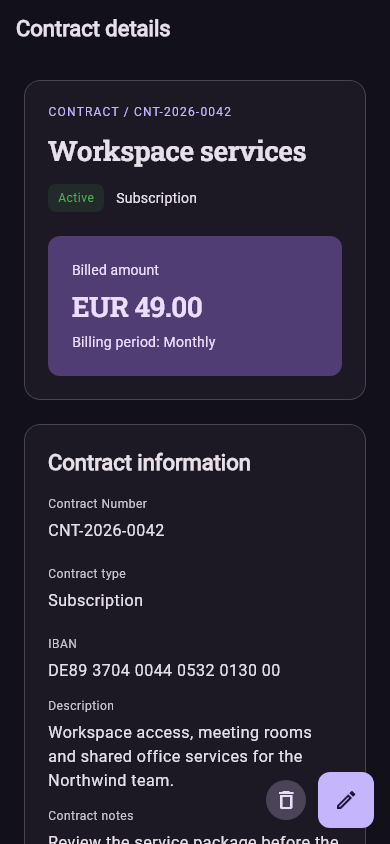
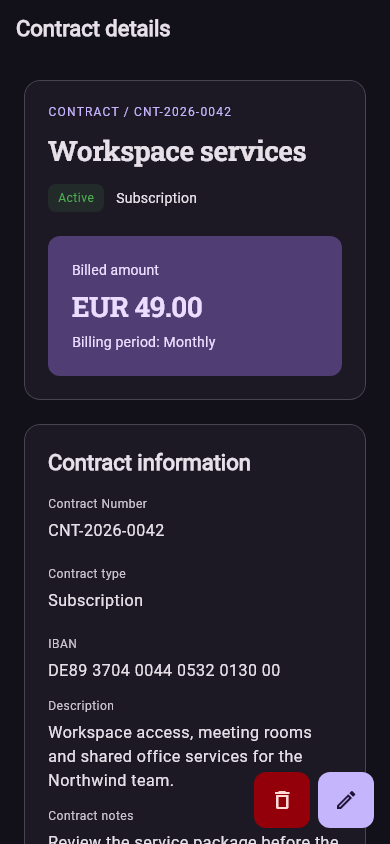
Unify bottom action button shapes and sizing

Changed region(s): [[0.6462, 0.8934, 0.8, 0.9858]]

diff --git a/lib/widgets/app_bottom_actions.dart b/lib/widgets/app_bottom_actions.dart
@@ -1,11 +1,23 @@
 import 'package:flutter/material.dart';
 
+class AppBottomAction {
+  final IconData icon;
+  final String tooltip;
+  final VoidCallback? onPressed;
+  final bool destructive;
+  const AppBottomAction(
+      {required this.icon,
+      required this.tooltip,
+      required this.onPressed,
+      this.destructive = false});
+}
+
 /// The page's primary action stays within reach; creation uses only a plus.
 class AppBottomActions extends StatelessWidget {
   final IconData icon;
   final String tooltip;
   final VoidCallback? onPressed;
-  final List<Widget> secondary;
+  final List<AppBottomAction> secondary;
   const AppBottomActions(
       {super.key,
       required this.icon,
@@ -13,13 +25,28 @@ class AppBottomActions extends StatelessWidget {
       required this.onPressed,
       this.secondary = const []});
   @override
-  Widget build(BuildContext context) =>
-      Row(mainAxisSize: MainAxisSize.min, children: [
-        for (final action in secondary) ...[action, const SizedBox(width: 8)],
+  Widget build(BuildContext context) {
+    final scheme = Theme.of(context).colorScheme;
+    return Row(mainAxisSize: MainAxisSize.min, children: [
+      for (final action in secondary) ...[
         FloatingActionButton(
-            heroTag: tooltip,
-            tooltip: tooltip,
-            onPressed: onPressed,
-            child: Icon(icon)),
-      ]);
+            heroTag: '${action.tooltip}-secondary',
+            tooltip: action.tooltip,
+            onPressed: action.onPressed,
+            backgroundColor: action.destructive
+                ? scheme.errorContainer
+                : scheme.secondaryContainer,
+            foregroundColor: action.destructive
+                ? scheme.onErrorContainer
+                : scheme.onSecondaryContainer,
+            child: Icon(action.icon)),
+        const SizedBox(width: 8),
+      ],
+      FloatingActionButton(
+          heroTag: tooltip,
+          tooltip: tooltip,
+          onPressed: onPressed,
+          child: Icon(icon)),
+    ]);
+  }
 }

diff --git a/lib/screens/contractor/contractor_detail_screen.dart b/lib/screens/contractor/contractor_detail_screen.dart
@@ -251,10 +251,11 @@ class _ContractorDetailViewState extends State<_ContractorDetailView> {
           tooltip: 'Edit',
           onPressed: _openEdit,
           secondary: [
-            IconButton.filledTonal(
+            AppBottomAction(
                 tooltip: active ? 'Deactivate' : 'Reactivate',
                 onPressed: active ? _confirmDeactivate : _activate,
-                icon: Icon(active ? Icons.block : Icons.check_circle_outline))
+                destructive: active,
+                icon: active ? Icons.block : Icons.check_circle_outline)
           ]),
       body: AppPageListView(
         padding: const EdgeInsets.fromLTRB(16, 16, 16, 112),

diff --git a/lib/screens/contract/contract_detail_screen.dart b/lib/screens/contract/contract_detail_screen.dart
@@ -234,10 +234,11 @@ class _ContractDetailScreenState extends State<ContractDetailScreen> {
                 : () => Navigator.pushNamed(context, '/contract/edit',
                     arguments: contract),
             secondary: [
-              IconButton.filledTonal(
+              AppBottomAction(
                   tooltip: 'Delete',
                   onPressed: _busy ? null : _confirmDelete,
-                  icon: const Icon(Icons.delete_outline))
+                  destructive: true,
+                  icon: Icons.delete_outline)
             ]),
         body: RefreshIndicator(
             onRefresh: _refresh,

diff --git a/DESIGN.md b/DESIGN.md
@@ -77,6 +77,11 @@ Primary create actions use a plus-only button at the bottom, with an accessible
 tooltip. Edit also stays at the bottom of detail pages; destructive lifecycle actions
 remain secondary and keep their existing confirmation. Contextual actions such as
 opening a contractor or attaching a document stay with their content.
+AppBottomActions renders every bottom action as the same 56-pixel floating
+button with the shared 12-pixel corner radius and an 8-pixel gap. Primary actions
+use primary/onPrimary; Delete and Deactivate use errorContainer/onErrorContainer.
+Other secondary actions use secondaryContainer/onSecondaryContainer. Action specs
+keep individual screens from substituting a smaller circular control.
 
 The Contracts redesign follows the filtering role and state treatment of Flutter's
 [Material FilterChip](https://api.flutter.dev/flutter/material/FilterChip-class.html),
